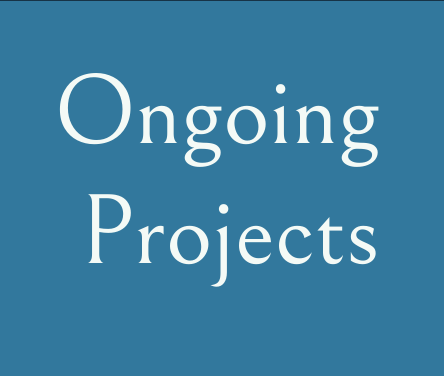
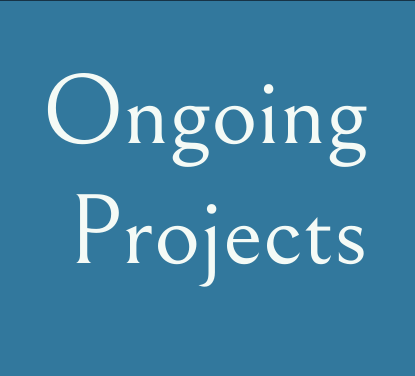
Fonts changed

diff --git a/styling/Games.css b/styling/Games.css
@@ -1,5 +1,6 @@
 body{
     background-color: rgb(240, 238, 238);
+    width:100px;
 }
 
 .container-sm{
@@ -21,7 +22,7 @@ body{
 }
 
 .card-image, .card-img{
-    width: 13rem;
+    width: 14.3rem;
     height: 100%;
     border-radius: 1rem;
     margin: 0px;
@@ -29,7 +30,7 @@ body{
 
 .card-img{
     padding: 0.3rem;
-    overflow: hidden;
+    /* border: 2px solid black; */
     border-radius: 1rem;
 }
 
@@ -42,34 +43,11 @@ body{
     margin-top: 1rem;
     margin-left: 0.7rem;
 }
-.card-subtitle {
-    font-style: italic;
-    font-size: 18px;
-}
-.card-title {
-    /* font-family: 'Playfair Display', serif; */
-    font-weight: 700;
-    font-style: italic;
-    font-size: 1.4rem;
-    color: #333;
-}
-.card-text{
-        font-size: 1rem;
-}
+
 #buttons{
     padding: 0rem;
     display: flex;
     flex-wrap: wrap;
-}
-#text-scroll{
-    height: 6rem;
-    overflow: scroll;
-    scroll-behavior: smooth;
-    &::-webkit-scrollbar {
-        display: none;
-    }
-    -ms-overflow-style: none;  /* IE and Edge */
-    scrollbar-width: none;
 }
 
 /* @media(max-width: 450px){

diff --git a/Game.html b/Game.html
@@ -67,7 +67,6 @@
             <h6 class="card-subtitle mb-2 text-body-secondary"><B>Description</B></h6>
             <div id="text-scroll">
               <p class="card-text">2048 is a single-player sliding puzzle game where players combine numbered tiles on a 4×4 grid to reach the 2048 tile. Tiles with the same value merge when moved in one of four directions (up, down, left, or right). The game ends when no moves are possible, requiring strategic planning to avoid getting stuck.</p>
-              
             </div>
           </div>
           <div id="buttons">
@@ -99,7 +98,6 @@
           </div>
         </div>
       </div>
-      
     </div>
     <special-footer class="footer_list"></special-footer>
     <script src="https://cdn.jsdelivr.net/npm/bootstrap@5.3.3/dist/js/bootstrap.bundle.min.js" integrity="sha384-YvpcrYf0tY3lHB60NNkmXc5s9fDVZLESaAA55NDzOxhy9GkcIdslK1eN7N6jIeHz" crossorigin="anonymous"></script>

diff --git a/Projects.html b/Projects.html
@@ -15,8 +15,9 @@
     <h1 id="page-title">Projects</h1>
     <hr>
     <div class="container-sm">
-        <div id="category"><a href="Game.html"><img src="./images/game2.jpg" alt="Diamond Image" class="diamond-img"></a></div>
-        <div id="category"><a href=""><img src="./images/j4.png" alt="Diamond Image" class="diamond-img"></div></a></div>
+        <div id="category"><a href="Game.html"><img src="./images/game2.jpg" alt="Diamond Image" ></a></div>
+        <div id="category"><a href=""><img src="./images/j4.png" alt="Diamond Image" ></a></div>
+        <div></div>
     </div>
         <special-footer></special-footer>
         <script src="https://cdn.jsdelivr.net/npm/bootstrap@5.3.3/dist/js/bootstrap.bundle.min.js" integrity="sha384-YvpcrYf0tY3lHB60NNkmXc5s9fDVZLESaAA55NDzOxhy9GkcIdslK1eN7N6jIeHz" crossorigin="anonymous"></script>

diff --git a/styling/project.css b/styling/project.css
@@ -1,8 +1,38 @@
-.container{
-    display: flex;
-    flex-wrap: wrap;
-    justify-content: space-around;
+body{
+    background-color: rgb(240, 238, 238);
 }
-a img{
 
+.container-sm{
+    display: flex;
+    justify-content: center;
+    flex-wrap: wrap;
+    padding: 3rem;
+} 
+
+
+a img, .container-sm div{
+    width: 50%;
+    height: 100%;
+    border-radius: 1rem;
+    margin-bottom: 2rem;
+}
+
+a img:hover{
+    transform: scale(1.1);
+    transition: 0.3s ease-in;
+}
+
+@media(max-width: 450px){
+    .container-sm{
+        display: flex;
+        justify-content: space-around;
+        flex-wrap: wrap;
+        padding: 3rem;
+    } 
+    a img, .container-sm div{
+        width: 100%;
+        height: 100%;
+        border-radius: 1rem;
+        margin-bottom: 2rem;
+    }
 }
